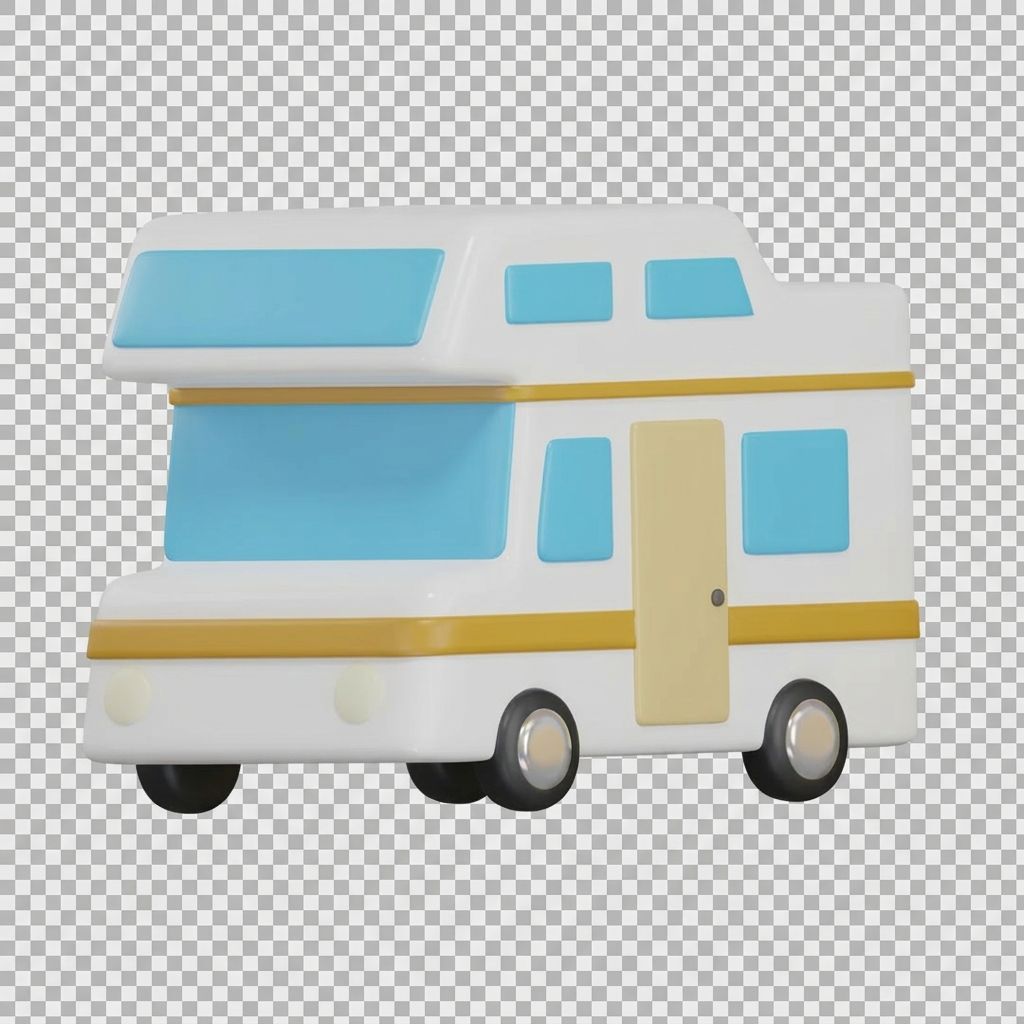
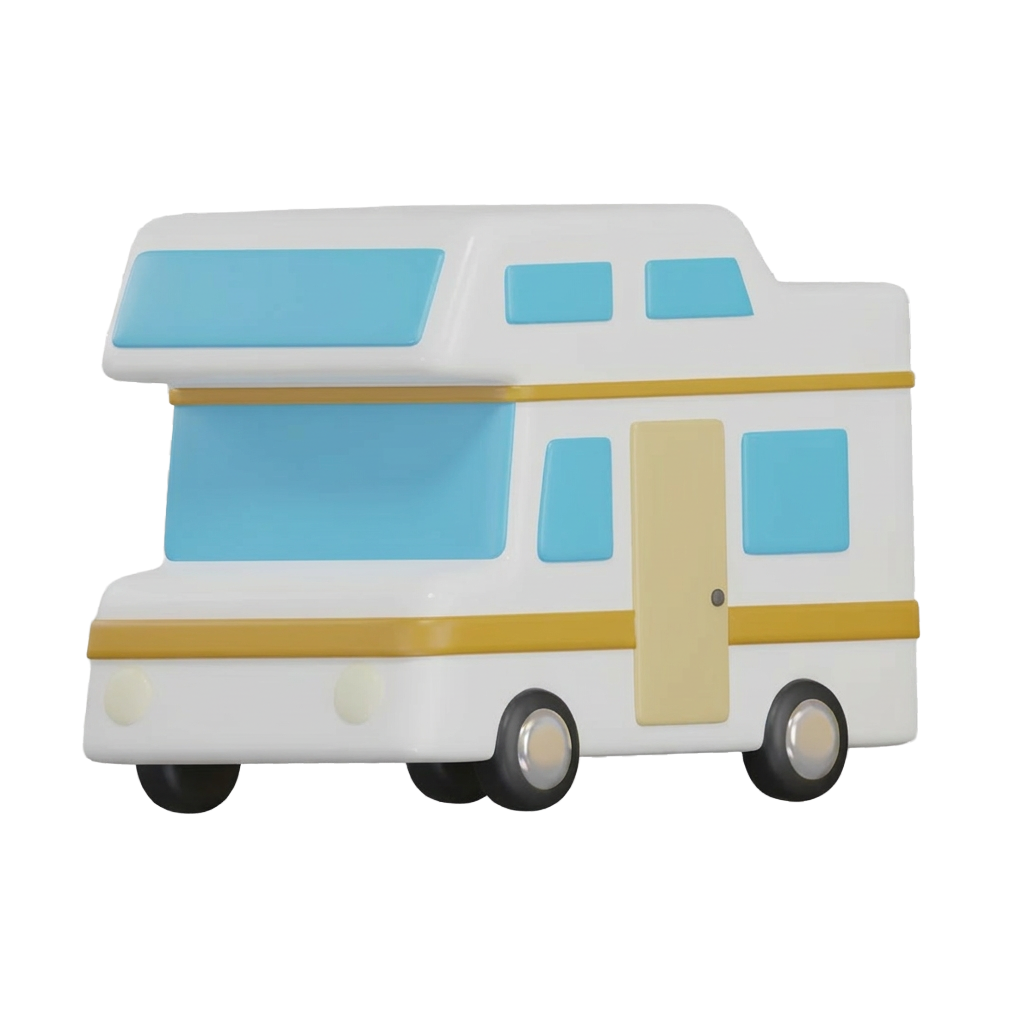
ios: kategori-tabs Airbnb-stil + oppdaterte ikoner (build 112)
- Kopiert oppdaterte camping.png + parking.png (transparent bakgrunn)
  fra Resources/CategoryIcons til Assets.xcassets-imagesettene.
- WhereSheet floating header: kategori-tabs hviler nå rett oppå blur-
  bakgrunnen i stedet for inne i en hvit pille. 36pt ikon over 12pt
  tekst, kort 2pt svart strek under aktiv kategori (matcher Airbnb).
- Inaktive ikoner får 0.55 opacity, inaktiv tekst er neutral500.

diff --git a/TunoApp/Tuno/Views/Search/Components/WhereSheet.swift b/TunoApp/Tuno/Views/Search/Components/WhereSheet.swift
@@ -78,7 +78,7 @@ struct WhereSheet: View {
     // MARK: - Floating header (kategori sveve + xmark)
 
     private var floatingHeader: some View {
-        HStack(spacing: 12) {
+        HStack(alignment: .top, spacing: 12) {
             Button { isPresented = false } label: {
                 Image(systemName: "xmark")
                     .font(.system(size: 16, weight: .semibold))
@@ -86,10 +86,11 @@ struct WhereSheet: View {
                     .frame(width: 32, height: 32)
             }
             .accessibilityLabel("Lukk")
+            .padding(.top, 8)
 
             Spacer()
 
-            categoryFloatingPill
+            categoryFloatingTabs
 
             Spacer()
 
@@ -97,14 +98,14 @@ struct WhereSheet: View {
         }
     }
 
-    private var categoryFloatingPill: some View {
-        HStack(spacing: 0) {
+    /// Airbnb-stil floating kategori-tabs: ikoner med tekst under, hviler
+    /// rett oppå blur-bakgrunnen (ingen pille). Aktiv kategori har en
+    /// kort sort strek under teksten.
+    private var categoryFloatingTabs: some View {
+        HStack(alignment: .top, spacing: 28) {
             categoryFloatingTab(.camping, label: "Camping")
             categoryFloatingTab(.parking, label: "Parkering")
         }
-        .padding(4)
-        .background(Capsule().fill(Color.white))
-        .shadow(color: .black.opacity(0.10), radius: 8, y: 2)
     }
 
     private func categoryFloatingTab(_ value: ListingCategory, label: String) -> some View {
@@ -118,19 +119,20 @@ struct WhereSheet: View {
                 }
             }
         } label: {
-            HStack(spacing: 6) {
+            VStack(spacing: 4) {
                 Image(value.categoryIcon)
                     .resizable()
                     .aspectRatio(contentMode: .fit)
-                    .frame(width: 20, height: 20)
+                    .frame(width: 36, height: 36)
                     .opacity(isSelected ? 1.0 : 0.55)
                 Text(label)
-                    .font(.system(size: 13, weight: .semibold))
+                    .font(.system(size: 12, weight: isSelected ? .semibold : .medium))
                     .foregroundStyle(isSelected ? .neutral900 : .neutral500)
+                Rectangle()
+                    .fill(isSelected ? Color.neutral900 : Color.clear)
+                    .frame(height: 2)
+                    .frame(width: 24)
             }
-            .padding(.horizontal, 14)
-            .padding(.vertical, 6)
-            .background(Capsule().fill(isSelected ? Color.neutral100 : Color.clear))
         }
         .buttonStyle(.plain)
     }
